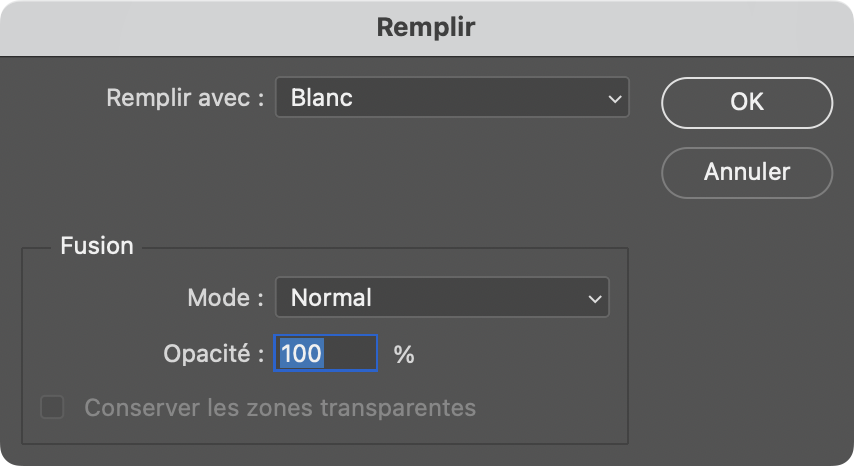
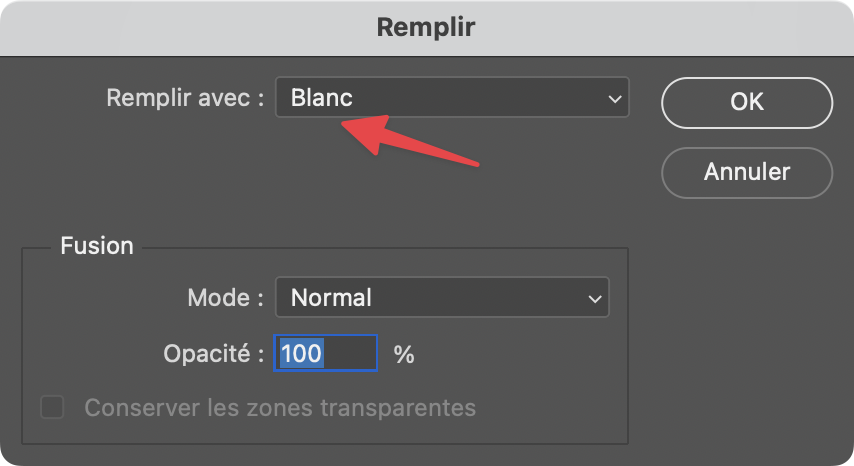
Mise à jour des liens des assets

Changed region(s): [[0.3958, 0.2403, 0.5785, 0.3605]]

diff --git a/2026-09-29/Septembre 2026 - Session #2.md b/2026-09-29/Septembre 2026 - Session #2.md
@@ -63,11 +63,11 @@ A partir des fichiers : Ponta-do-Sol-Sunset.jpg
 7. Créer un masque noir (opt ou alt + clic sur nouveau masque) sur ce calque du dessus
 8. Utiliser l'outil Lasso Polygonal pour créer un contour sur le chapiteau
 9. Se mettre sur le masque, Menu Édition > Remplir, puis :
-![[07.png]]
+![[06.png]]
 
 10. Remettre le mode de fusion du calque du dessus à Normal
 11. Créer un calque de réglage Courbes
 12. Passer en mode Écrétage :
-![[08.png]]
+![[07.png]]
 
 13. Régler les bleus et les rouges
